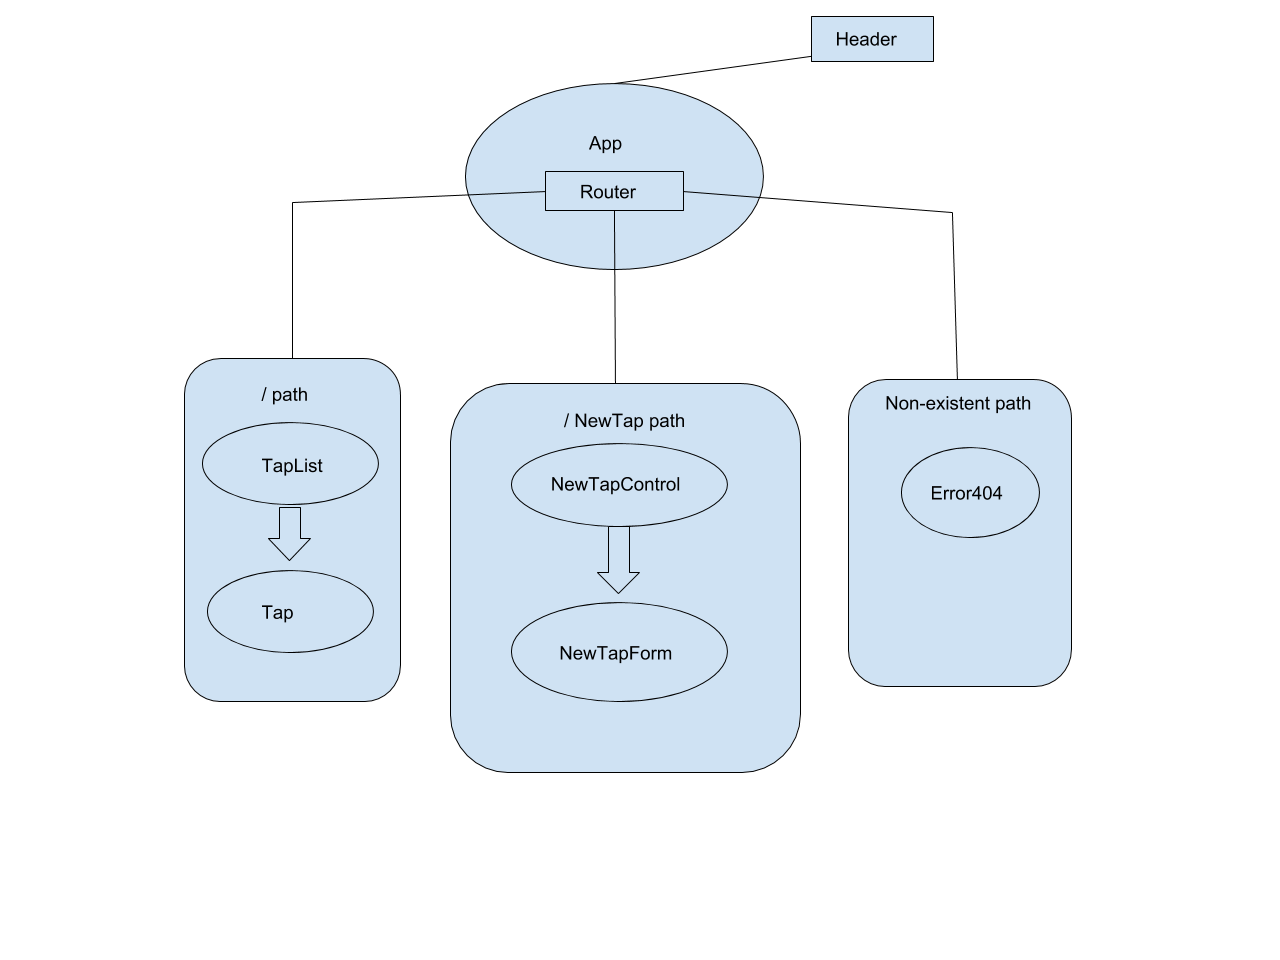
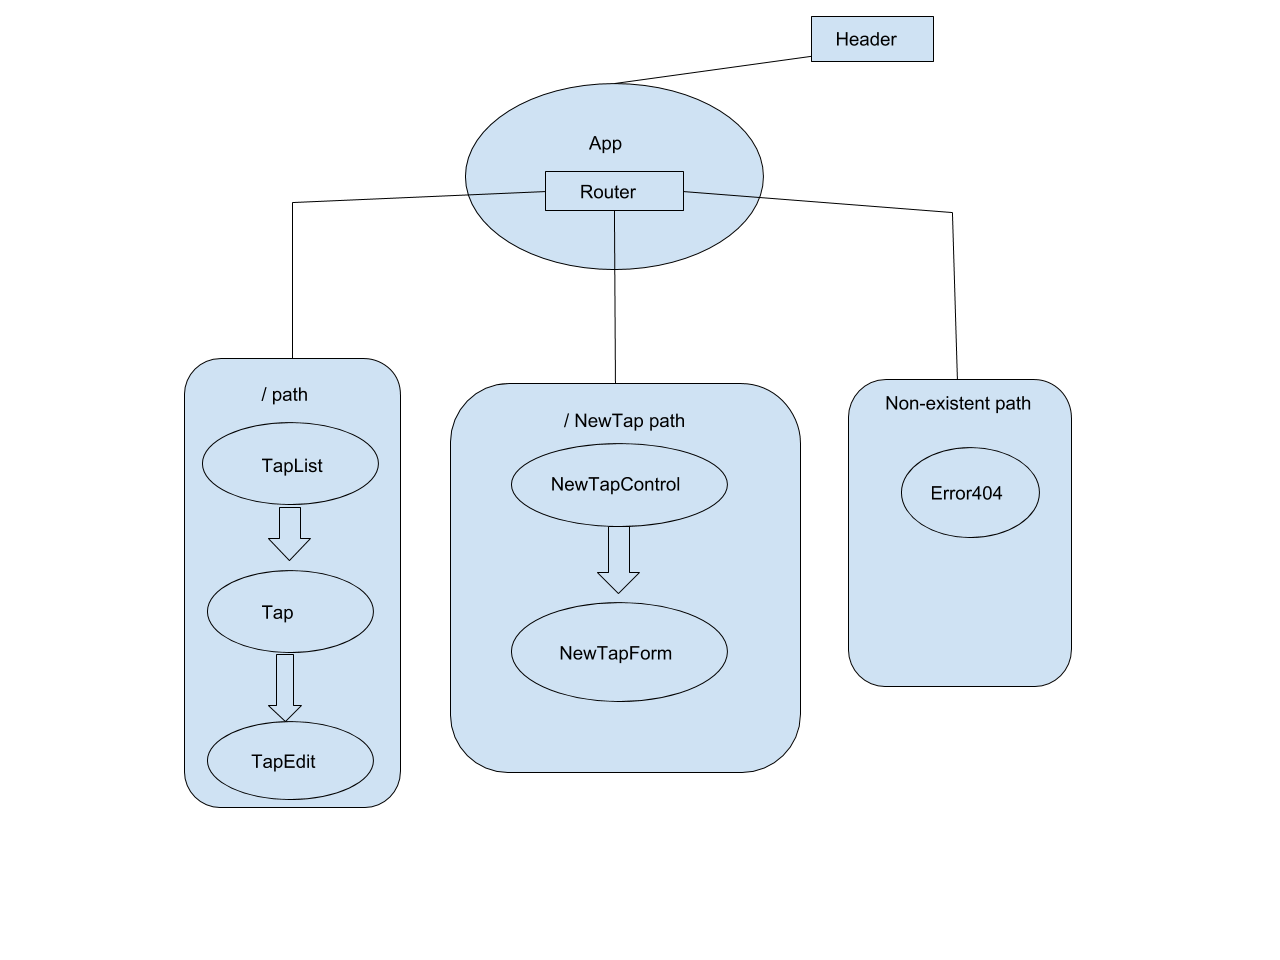
update components chart

Changed region(s): [[0.125, 0.7188, 0.3125, 0.8438]]

diff --git a/src/components/NewTapForm.jsx b/src/components/NewTapForm.jsx
@@ -1,0 +1,9 @@
+import React from 'react';
+
+function NewTapForm() {
+  return(
+    // new keg form to go here
+  );
+}
+
+export default NewTapForm;

diff --git a/src/components/TapEdit.jsx b/src/components/TapEdit.jsx
@@ -1,0 +1,9 @@
+import React from 'react';
+
+function TapEdit() {
+  return(
+    // edit form to go here
+  );
+}
+
+export default TapEdit;
